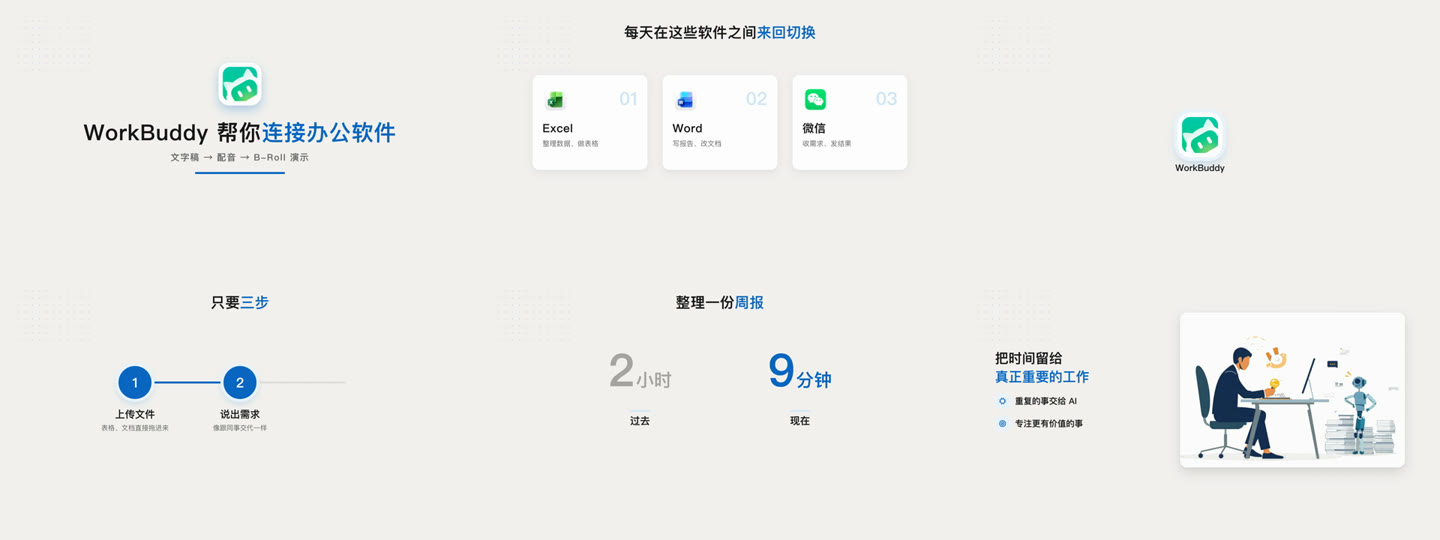
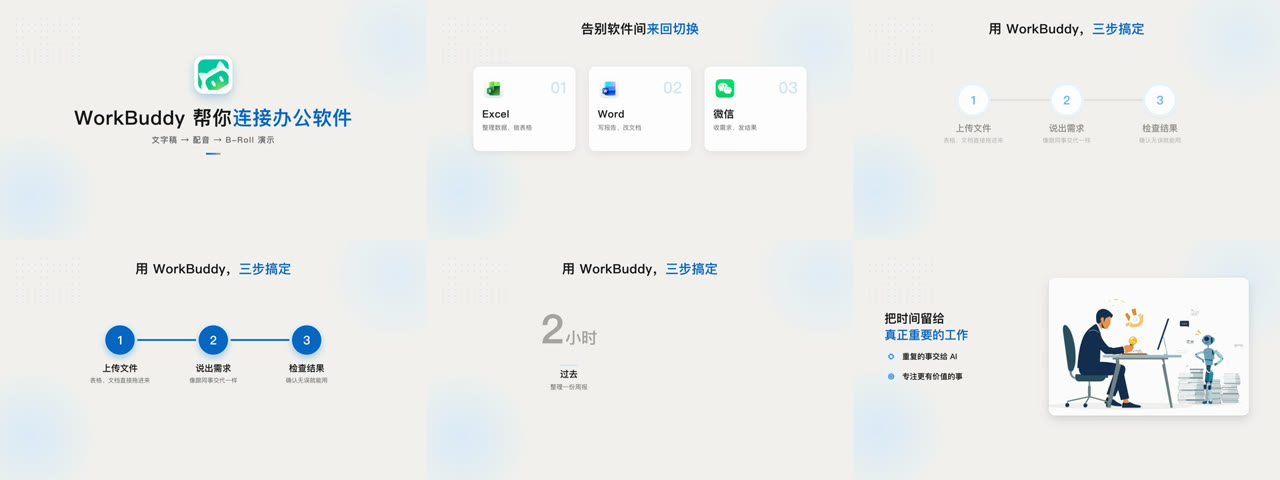
Restore original background; persistent chapter header and lit-up steps in story.html
- Bring back warm-gray background with drifting blue blobs, glow and gradient accents
- Top title in story.html is now a chapter header: inherited across scenes, only changes per topic
- Steps appear idle at scene start and light up at their 'at' time
- Update docs and README screenshots

diff --git a/templates/story.html b/templates/story.html
@@ -13,8 +13,12 @@
   ─────────────────────────────────────────────────────────────
   时间：全部是音频里的绝对秒。from/to = 场景起止，场景之间首尾相接（上一个 to = 下一个 from）。
         要点/列表：条目在场景开头自动依次出现（show 可改），at = 口播说到它时高亮/打勾；
-        步骤、数字、对比、胶囊、图片要点：at = 出现时刻。不写 at 就自动依次出现。
+        步骤：一开场就以浅色全部出现，at = 说到这一步时点亮；
+        数字、对比、胶囊、图片要点：at = 出现时刻。不写 at 就自动依次出现。
         原则：场景开头 0.5 秒内必须有东西，别为了对齐某个字让画面空等。
+  顶部标题：是「章节标题」不是字幕。points/steps/stat/compare/apps 不写 title 就沿用上一个，
+        同一话题的几个场景共用一个标题、切场景时标题不动；换话题才写新 title（title:'' 隐藏）。
+        一般 30–60 秒里只换 2–3 次；具体内容写进卡片/数字标签，不要塞进标题。
   场景类型（字段详见 references/audio-text.md）：
     title      开场标题：图标/logo + 大标题 + 副标题
     points     要点卡片（2–4 个横排，layout:'cards'）或要点列表（最多 6 条，layout:'list'）
@@ -41,6 +45,9 @@ em{font-style:normal;color:var(--blue)}
 .bg{position:absolute;inset:0;background:var(--bg)}
 html.alpha .bg,html.alpha .deco{display:none!important}
 .deco{position:absolute;inset:0;pointer-events:none;overflow:hidden}
+.blob{position:absolute;border-radius:50%}
+.blob.b0{left:-180px;top:560px;width:620px;height:620px;background:radial-gradient(circle,#DCEBFA 0%,rgba(220,235,250,0) 70%)}
+.blob.b1{right:-160px;top:-140px;width:640px;height:640px;background:radial-gradient(circle,#E4EEF9 0%,rgba(228,238,249,0) 70%)}
 .dotgrid{position:absolute;left:60px;top:70px;width:300px;height:220px;background-image:radial-gradient(#C9D9EC 2.4px,transparent 2.6px);background-size:28px 28px;opacity:.9}
 .safe{position:absolute;left:0;right:0;top:880px;height:200px;z-index:60;pointer-events:none;display:none;
   background:repeating-linear-gradient(45deg,rgba(231,163,62,.18) 0 14px,rgba(231,163,62,.05) 14px 28px);border-top:2px dashed var(--amber)}
@@ -76,11 +83,11 @@ html.alpha .card{box-shadow:0 14px 40px rgba(0,0,0,.28)}
 
 /* title */
 .t-wrap{position:absolute;left:0;right:0;top:250px;display:flex;flex-direction:column;align-items:center;text-align:center}
-.t-logo{width:172px;height:172px;border-radius:44px;background:var(--blue);color:#fff;box-shadow:0 18px 40px rgba(10,102,194,.28)}
+.t-logo{width:172px;height:172px;border-radius:44px;background:linear-gradient(135deg,var(--blue-mid),var(--blue-dark));color:#fff;box-shadow:0 18px 40px rgba(10,102,194,.28)}
 .t-logo.img{background:#fff}
 .t-title{margin-top:52px;font-size:88px;font-weight:800;letter-spacing:2px;line-height:112px;max-width:1600px}
 .t-sub{margin-top:18px;font-size:36px;font-weight:600;color:var(--muted);letter-spacing:3px}
-.t-bar{margin-top:34px;height:8px;width:360px;border-radius:4px;background:var(--blue);transform-origin:50% 50%}
+.t-bar{margin-top:34px;height:8px;width:360px;border-radius:4px;background:linear-gradient(90deg,var(--blue),var(--blue-mid) 60%,var(--amber));transform-origin:50% 50%}
 
 /* points：cards */
 .pc{top:300px;height:380px;padding:46px 40px}
@@ -96,7 +103,9 @@ html.alpha .card{box-shadow:0 14px 40px rgba(0,0,0,.28)}
 .pl .ck svg{width:32px;height:32px;stroke-width:3.2}
 
 /* steps */
-.s-node{width:132px;height:132px;border-radius:66px;background:var(--blue);color:#fff;font-size:54px;font-weight:800;display:grid;place-items:center;box-shadow:0 0 0 12px var(--tint),0 14px 30px rgba(10,102,194,.25)}
+.s-node{width:132px;height:132px;border-radius:66px;background:#fff;color:var(--blue-light);font-size:54px;font-weight:800;display:grid;place-items:center;box-shadow:0 0 0 12px var(--tint),0 8px 20px rgba(0,0,0,.08)}
+.s-node svg{width:54px;height:54px}
+.s-node .sl{position:absolute;inset:0;border-radius:66px;background:var(--blue);color:#fff;display:grid;place-items:center;opacity:0;box-shadow:0 14px 30px rgba(10,102,194,.3)}
 .s-txt{text-align:center}
 .s-txt b{display:block;font-size:40px;font-weight:700;line-height:54px}
 .s-txt p{margin-top:8px;font-size:27px;color:var(--muted);line-height:38px}
@@ -151,6 +160,7 @@ html.alpha .card{box-shadow:0 14px 40px rgba(0,0,0,.28)}
 .im-side .it{display:flex;align-items:center;gap:20px;margin-top:30px;font-size:34px;font-weight:600;line-height:46px}
 .im-side .it .tile{width:60px;height:60px;border-radius:18px}
 .im-full{position:absolute;inset:0;overflow:hidden}
+.im-full::after{content:"";position:absolute;inset:0;background:linear-gradient(180deg,rgba(0,0,0,0) 45%,rgba(0,0,0,.38) 100%)}
 .im-full img,.im-full .missing{width:100%;height:100%;object-fit:cover;transform-origin:50% 50%}
 .im-cap{left:120px;top:640px;max-width:1100px;padding:34px 44px;border-radius:28px;background:rgba(255,255,255,.95);box-shadow:0 14px 40px rgba(0,0,0,.28)}
 .im-cap b{display:block;font-size:52px;font-weight:700;line-height:68px}
@@ -167,8 +177,9 @@ html.alpha .card{box-shadow:0 14px 40px rgba(0,0,0,.28)}
 </head>
 <body>
 <div class="bg"></div>
-<div class="deco"><div class="dotgrid"></div></div>
+<div class="deco"><div class="blob b0"></div><div class="blob b1"></div><div class="dotgrid"></div></div>
 <div id="stage"></div>
+<div id="head" class="head o0"></div>
 <div class="safe"></div>
 
 <script>
@@ -189,14 +200,15 @@ window.STORY={scenes:[
   {id:'S4',type:'statement',from:12.26,to:22.64,text:'过去，只有一个 <em>Auto</em>',
     chips:[{icon:'cpu',text:'系统判断任务难度',at:19.52},{icon:'spark',text:'自动匹配模型',at:21.04}]},
   // 「而这次改版@23.76 … 把 Auto 改成了 低@26.46 中@26.92 高@27.18 这三档，每一档的积分@30.68 消耗倍率是不同的」
+  // ↓ S5–S7 同一话题，共用一个顶部标题（S6、S7 不写 title，沿用）
   {id:'S5',type:'compare',from:22.64,to:33.04,title:'这次改版，<em>把选择权交给你</em>',
     left:{label:'过去',icon:'clock',items:[{text:'只有 Auto 一种模式'},{text:'系统替你决定'}]},
     right:{label:'现在',icon:'spark',at:23.76,items:[{text:'低 · 中 · 高 三档',at:26.46},{text:'每档积分倍率不同',at:30.68}]}},
   // 「我们就有了更多的选择权@35.22」
-  {id:'S6',type:'stat',from:33.04,to:36.16,title:'积分消耗<em>倍率</em>',
-    items:[{value:0.21,dec:2,suffix:'×',label:'快速',at:33.2},{value:0.65,dec:2,suffix:'×',label:'均衡',at:33.6},{value:1.2,dec:2,suffix:'×',label:'极致',tone:'amber',at:34.0}]},
+  {id:'S6',type:'stat',from:33.04,to:36.16,
+    items:[{value:0.21,dec:2,suffix:'×',label:'快速',desc:'积分倍率',at:33.2},{value:0.65,dec:2,suffix:'×',label:'均衡',desc:'积分倍率',at:33.6},{value:1.2,dec:2,suffix:'×',label:'极致',desc:'积分倍率',tone:'amber',at:34.0}]},
   // 「比如日常问答@38.36、格式转换@39.02 … 我们就选快速@41.86；均衡@42.74 模式适合写文章」
-  {id:'S7',type:'points',layout:'list',check:true,from:36.16,to:45.0,title:'怎么选？<em>看任务难度</em>',
+  {id:'S7',type:'points',layout:'list',check:true,from:36.16,to:45.0,
     items:[{icon:'chat',text:'日常问答',desc:'→ 选「快速」就够',at:38.36},{icon:'file',text:'格式转换',desc:'→ 选「快速」就够',at:39.02},
            {icon:'bal',text:'写文章、做表格',desc:'→ 选「均衡」',at:42.74}]},
 ]};
@@ -254,7 +266,8 @@ function tile(x,size,lit=false,extra=''){const tone=x.tone?' '+x.tone:'';
   return `<div class="tile${x.img?' plain':''}${tone}${extra}" style="width:${size}px;height:${size}px">${inner}${lit&&!x.img?`<div class="lit">${svg(x.icon)}</div>`:''}</div>`;}
 // 未写 at 的元素依次出现
 const autoAt=(sc,list,start=.45,gap=.3)=>list.forEach((x,i)=>{if(x.at===undefined)x.at=sc.from+start+i*gap;});
-function addHead(sc,el){if(!sc.title)return null;const h=mk('div','head o0',sc.title);el.append(h);return h;}
+// 顶部标题由全局 #head 统一绘制（见「组装」），这里只告诉布局「有没有标题」
+function addHead(sc){return !!sc._head;}
 function addNote(sc,el){if(!sc.note)return null;const n=sc.note;
   const p=mk('div',`pill note ${n.tone||'amber'} cx o0`,svg(n.icon||'info')+n.text,`top:${n.top||770}px`);el.append(p);
   if(n.at===undefined)n.at=sc.to-2.2;return p;}
@@ -279,7 +292,7 @@ T.points=(sc,el)=>{
     it.forEach((x,i)=>{const col=two?(i<rows?0:1):0,r=two?i%rows:i,left=two?(col?1000:120):380;
       const c=mk('div','card pl o0',`${tile(x,64,true)}<b>${x.text}</b>${x.desc?`<p>${x.desc}</p>`:''}${sc.check?`<div class="ck">${svg('chk')}</div>`:''}`,`left:${left}px;top:${y0+r*(rh+g)}px;width:${cw}px`);el.append(c);nodes.push(c);});}
   const note=addNote(sc,el);
-  return t=>{if(h)enter(h,t,sc.from+.1,.5,18);
+  return t=>{
     it.forEach((x,i)=>{const c=nodes[i];
       if(list)fromL(c,t,x.show,.45,-36);else{const p=P(t,x.show,.6,E.back);st(c,{o:P(t,x.show,.4),y:(1-p)*40});}
       const lit=$('.lit',c);if(lit)lit.style.opacity=x.at!==undefined?P(t,x.at,.3):0;
@@ -293,12 +306,16 @@ T.steps=(sc,el)=>{
   const h=addHead(sc,el),it=sc.items,n=it.length;autoAt(sc,it,.3,.6);
   const gap=Math.min(420,1440/Math.max(1,n-1)),cy=sc.y||450,xs=it.map((_,i)=>960+(i-(n-1)/2)*gap);
   el.append(mk('div','a',`<svg width="1920" height="1080" style="position:absolute;left:0;top:0"><path d="M${xs[0]} ${cy}H${xs[n-1]}" stroke="#E3E0DB" stroke-width="8" stroke-linecap="round"/><path class="fill" d="M${xs[0]} ${cy}H${xs[n-1]}" stroke="#0A66C2" stroke-width="8" stroke-linecap="round" fill="none"/></svg>`,'left:0;top:0'));
-  const nodes=it.map((x,i)=>{const c=mk('div','a s-node tnum o0',x.icon?svg(x.icon):String(i+1),`left:${xs[i]-66}px;top:${cy-66}px`);
+  it.forEach((x,i)=>{if(x.show===undefined)x.show=sc.from+.25+i*.15;});
+  const nodes=it.map((x,i)=>{const lb=x.icon?svg(x.icon):String(i+1);const c=mk('div','a s-node tnum o0',`${lb}<div class="sl">${lb}</div>`,`left:${xs[i]-66}px;top:${cy-66}px`);
     const tx=mk('div','a s-txt o0',`<b>${x.text}</b>${x.desc?`<p>${x.desc}</p>`:''}`,`left:${xs[i]-(gap-30)/2}px;top:${cy+100}px;width:${gap-30}px`);el.append(c,tx);return [c,tx];});
   const note=addNote(sc,el);const fill=$('.fill',el);
-  return t=>{if(h)enter(h,t,sc.from+.1,.5,18);
+  return t=>{
     let p=0;for(let i=1;i<n;i++)p+=P(t,it[i].at-.45,.45,E.inOut)/(n-1);draw(fill,p);
-    it.forEach((x,i)=>{pop(nodes[i][0],t,x.at,.5);enter(nodes[i][1],t,x.at+.15,.45,16);});
+    // 步骤在场景开头就以浅色出现，说到第几步（at）时点亮
+    it.forEach((x,i)=>{const [c,tx]=nodes[i],lit=P(t,x.at,.35);
+      const pp=P(t,x.show,.5,E.back);st(c,{o:P(t,x.show,.3),s:L(.7,1,pp)*(1+.08*bump(t,x.at,.5))});$('.sl',c).style.opacity=lit;
+      const pe=P(t,x.show+.1,.45);st(tx,{o:pe*L(.45,1,lit),y:(1-pe)*16});});
     if(note)pop(note,t,sc.note.at);};
 };
 
@@ -307,7 +324,7 @@ T.stat=(sc,el)=>{
   const w=n===1?900:n===2?640:520,x0=(1920-n*w)/2,top=h?300:260;
   const nodes=it.map((x,i)=>{const c=mk('div',`a st-col o0 ${x.tone||''}`,`<div class="st-num tnum">${x.prefix||''}<span class="v"></span><small>${x.suffix||''}</small></div><div class="ln"></div><b>${x.label||''}</b>${x.desc?`<p>${x.desc}</p>`:''}`,`left:${x0+i*w}px;top:${top}px;width:${w}px`);el.append(c);return c;});
   const note=addNote(sc,el);
-  return t=>{if(h)enter(h,t,sc.from+.1,.5,18);
+  return t=>{
     it.forEach((x,i)=>{enter(nodes[i],t,x.at,.5,30);const v=$('.v',nodes[i]);
       v.textContent=typeof x.value==='number'?(x.value*P(t,x.at,1.1)).toFixed(x.dec||0):x.value;});
     if(note)pop(note,t,sc.note.at);};
@@ -323,7 +340,7 @@ T.compare=(sc,el)=>{
   const ch=Math.max(400,180+Math.max(Lf.items.length,Rt.items.length)*94),top=h?250:Math.round((1000-ch)/2);
   [l,r].forEach(c=>{c.style.top=top+'px';c.style.height=ch+'px';});
   const vs=mk('div','a vs o0',svg('arr'),`top:${top+ch/2-58}px`);el.append(vs);const note=addNote(sc,el);
-  return t=>{if(h)enter(h,t,sc.from+.1,.5,18);
+  return t=>{
     fromL(l,t,Lf.at,.5,-40);fromL(r,t,Rt.at,.5,40);pop(vs,t,Rt.at-.1,.45);
     $$('.it',l).forEach((e,i)=>enter(e,t,Lf.items[i].at,.4,14));$$('.it',r).forEach((e,i)=>enter(e,t,Rt.items[i].at,.4,14));
     if(note)pop(note,t,sc.note.at);};
@@ -374,7 +391,7 @@ T.apps=(sc,el)=>{
   }else{const gap=Math.min(300,1600/n);it.forEach((_,i)=>pos.push([960+(i-(n-1)/2)*gap,sc.cy||480]));}
   it.forEach((x,i)=>{const c=mk('div','a ap o0',tile(x,124)+`<span>${x.label||''}</span>`,`left:${pos[i][0]-120}px;top:${pos[i][1]-62}px`);el.append(c);nodes.push(c);});
   const note=addNote(sc,el);
-  return t=>{if(h)enter(h,t,sc.from+.1,.5,18);if(hub)pop(hub,t,sc.hub.at??sc.from+.3,.55);
+  return t=>{if(hub)pop(hub,t,sc.hub.at??sc.from+.3,.55);
     if(lines)$$('path',lines).forEach((p,i)=>{p.style.strokeDasharray='2 12';p.style.opacity=P(t,it[i].at-.2,.4);});
     it.forEach((x,i)=>pop(nodes[i],t,x.at,.5));if(note)pop(note,t,sc.note.at);};
 };
@@ -383,6 +400,21 @@ T.apps=(sc,el)=>{
 const S=window.STORY.scenes.slice().sort((a,b)=>a.from-b.from);
 S.forEach((s,i)=>{if(!T[s.type])throw new Error(`场景 ${s.id||i}：未知 type「${s.type}」`);if(!(s.to>s.from))throw new Error(`场景 ${s.id||i}：to 必须大于 from`);
   if(i&&s.from<S[i-1].to-.01)console.warn(`场景 ${s.id} 与上一个重叠`);s.id=s.id||'S'+(i+1);});
+// 顶部标题 = 章节标题：points/steps/stat/compare/apps 场景不写 title 就沿用上一个；title:'' 隐藏。
+// 相邻场景标题相同就合并成一段，切场景时标题不动，只有换话题才换标题。
+const HEADED={points:1,steps:1,stat:1,compare:1,apps:1};
+let curHead=null;S.forEach(s=>{if(!HEADED[s.type]){s._head=null;return;}if('title' in s)curHead=s.title||null;s._head=curHead;});
+const HEADS=[];S.forEach(s=>{const h=HEADS[HEADS.length-1];if(!s._head)return;
+  if(h&&h.text===s._head&&Math.abs(h.to-s.from)<.02)h.to=s.to;else HEADS.push({text:s._head,from:s.from,to:s.to});});
+const headEl=$('#head');let headNow=null;
+function drawHead(t){const end=S[S.length-1].to,h=HEADS.find(x=>t>=x.from&&(t<x.to||(x.to>=end-.001&&t<=x.to)));
+  if(!h){headEl.style.opacity=0;return;}
+  if(headNow!==h){headEl.innerHTML=h.text;headNow=h;}
+  const pin=P(t,h.from+.1,.5),pout=h.to>=end-.001?0:P(t,h.to-.3,.3,E.inOut);
+  st(headEl,{o:pin*(1-pout),y:(1-pin)*18-pout*14});}
+function drift(t){const b=$$('.deco .blob');
+  if(b[0])b[0].style.transform=`translate(${Math.sin(t*.35)*30}px,${Math.cos(t*.3)*20}px)`;
+  if(b[1])b[1].style.transform=`translate(${Math.cos(t*.3)*30}px,${Math.sin(t*.25)*24}px)`;}
 const stage=$('#stage');
 const live=S.map(s=>{const el=mk('section','sc');el.id=s.id;stage.append(el);return {s,el,up:T[s.type](s,el)};});
 const all={kind:'cover',from:S[0].from,to:S[S.length-1].to};
@@ -393,6 +425,7 @@ const Q=new URLSearchParams(location.search),SC=Q.get('scene')||'ALL',META=windo
 if(Q.has('guides'))document.documentElement.classList.add('guides');
 if(Q.has('alpha'))document.documentElement.classList.add('alpha');
 window.renderAt=t=>{
+  drift(t);drawHead(t);
   live.forEach(({s,el,up},i)=>{
     const last=i===live.length-1,on=t>=s.from&&(t<s.to||(last&&t<=s.to));
     el.classList.toggle('on',on);if(!on)return;

diff --git a/templates/broll.html b/templates/broll.html
@@ -45,6 +45,9 @@ svg.i{fill:none;stroke:currentColor;stroke-width:2;stroke-linecap:round;stroke-l
 
 /* 装饰：漂浮光斑 + 点阵 */
 .deco{position:absolute;inset:0;pointer-events:none;overflow:hidden}
+.blob{position:absolute;border-radius:50%}
+.blob.b0{left:-180px;top:560px;width:620px;height:620px;background:radial-gradient(circle,#DCEBFA 0%,rgba(220,235,250,0) 70%)}
+.blob.b1{right:-160px;top:-140px;width:640px;height:640px;background:radial-gradient(circle,#E4EEF9 0%,rgba(228,238,249,0) 70%)}
 .dotgrid{position:absolute;width:300px;height:220px;background-image:radial-gradient(#C9D9EC 2.4px,transparent 2.6px);background-size:28px 28px;opacity:.9}
 
 /* 标题：顶部居中，58px，em 蓝色强调；标题上方不加小字 */
@@ -95,7 +98,8 @@ svg.i{fill:none;stroke:currentColor;stroke-width:2;stroke-linecap:round;stroke-l
 /* ---------- T / K：透明叠加元素 ---------- */
 .tc{position:absolute;left:1200px;top:330px;width:690px;height:240px;border-radius:32px;background:rgba(255,255,255,.94);box-shadow:0 18px 50px rgba(0,0,0,.32);display:flex;align-items:center;gap:30px;padding:0 40px;opacity:0;overflow:hidden}
 .tc .ico{position:relative;width:124px;height:124px;flex:none}
-.tc .ico .logo{position:relative;z-index:1;width:124px;height:124px;border-radius:30px;background:var(--blue);color:#fff;display:grid;place-items:center;box-shadow:0 10px 24px rgba(10,102,194,.25)}
+.tc::after{content:"";position:absolute;right:-90px;top:-90px;width:260px;height:260px;border-radius:50%;background:radial-gradient(circle,rgba(10,102,194,.14) 0%,rgba(10,102,194,0) 70%)}
+.tc .ico .logo{position:relative;z-index:1;width:124px;height:124px;border-radius:30px;background:linear-gradient(135deg,var(--blue-mid),var(--blue-dark));color:#fff;display:grid;place-items:center;box-shadow:0 10px 24px rgba(10,102,194,.25)}
 .tc .ico .logo svg{width:68px;height:68px}
 .tc .ico img{position:relative;z-index:1;width:124px;height:124px;border-radius:30px}
 .tc .ico .glow{position:absolute;inset:-14px;border-radius:44px;border:4px solid var(--blue-mid);opacity:0}
@@ -103,7 +107,7 @@ svg.i{fill:none;stroke:currentColor;stroke-width:2;stroke-linecap:round;stroke-l
 .tc .w1{font-size:28px;font-weight:600;color:var(--muted);letter-spacing:2px;opacity:0}
 .tc .w2{font-size:48px;font-weight:800;line-height:60px;margin-top:4px;opacity:0;white-space:nowrap}
 .tc .w2 em{font-style:normal;color:var(--blue)}
-.tc .bar2{height:6px;border-radius:3px;margin-top:16px;background:var(--blue);width:300px;transform-origin:0 50%;transform:scaleX(0)}
+.tc .bar2{height:6px;border-radius:3px;margin-top:16px;background:linear-gradient(90deg,var(--blue),var(--blue-mid) 60%,var(--amber));width:300px;transform-origin:0 50%;transform:scaleX(0)}
 .pnl{position:absolute;left:1350px;top:150px;width:500px;background:rgba(255,255,255,.95);border-radius:26px;box-shadow:0 14px 40px rgba(0,0,0,.28);padding:30px 30px 26px;opacity:0}
 .pnl .hd{font-size:38px;font-weight:800;line-height:50px}
 .pnl .hd em{font-style:normal;color:var(--blue)}
@@ -124,7 +128,7 @@ svg.i{fill:none;stroke:currentColor;stroke-width:2;stroke-linecap:round;stroke-l
 <!-- ================= A：遮盖式 · 品牌画面 ================= -->
 <section class="scene" id="A">
   <div class="bg"></div>
-  <div class="deco"><div class="dotgrid" style="left:60px;top:70px"></div></div>
+  <div class="deco"><div class="blob b0"></div><div class="blob b1"></div><div class="dotgrid" style="left:60px;top:70px"></div></div>
   <div class="head"><div class="titles">
     <div class="title">过去：一个 <em>Auto</em> 包办</div>
     <div class="title">现在：<em>快速、均衡、极致</em>，三档自己选</div></div></div>

diff --git a/references/style-guide.md b/references/style-guide.md
@@ -41,8 +41,9 @@ B-Roll 要像 LinkedIn Learning 的课程画面：干净、明亮、信息清楚
 - **胶囊**（`.pill.amber/.green/.blue`）：高 52–56，圆角一半，图标 + 一句话，用来点出提醒或结论。
 - **图标**：24 视框的描边图标，`stroke-width:2`，圆头圆角（模板 `IC` 里有常用的，缺了就照这个规格画）。
 - **真实软件图标**：画面里提到具体软件（Excel、Word、微信、WorkBuddy……）一律用真图标，`scripts/app_icon.sh` 从 /Applications 里提取；做 WorkBuddy 内容时用官方 logo。不要用字母方块或 emoji 代替。
-- **背景**：纯色米白 `--bg` #F3F2EF（想要纯白就改成 #FFFFFF），**不用任何渐变**——不加光晕、渐变底、渐变条、渐变图标底。装饰只留角落一块浅蓝点阵（`.dotgrid`），不抢内容。
-- **配图底色**：Canva 生成的插图也要纯白 / 米白底、无渐变；生成出来底色偏黄就用 ffmpeg `colorkey` 换成白底（见 canva.md）。
+- **背景与装饰**：暖灰底 `--bg` #F3F2EF，上面两团缓慢漂移的浅蓝径向光斑（`.blob`，左下 + 右上）和角落一块浅蓝点阵（`.dotgrid`），很淡、不抢内容。标题卡 logo 用蓝色斜向渐变，强调条用 蓝 → 中蓝 → 琥珀 渐变。
+- **配图底色**：Canva 插图要白底（放进白卡片里），生成出来底色偏黄就用 ffmpeg `colorkey` 换成白底（见 canva.md）。
+- **顶部标题是章节标题，不是字幕**：同一话题的几个场景共用一个标题，切场景时标题不动；换话题才换。30–60 秒里一般只换 2–3 次，具体内容写进卡片、数字标签里。
 - **连接线 / 流程线**：浅蓝 #70B5F9，4px，虚线 `2 12` 或实线，用 `draw()` 逐渐画出。
 
 ## 增强式（叠在原画面上）的标注词汇

diff --git a/SKILL.md b/SKILL.md
@@ -12,7 +12,7 @@ description: 制作领英学习（LinkedIn Learning）风格的课程视频 B-Ro
 - Canva 配图流程与授权规则：`references/canva.md`
 - **只有音频或文字稿**（没有要配的录屏段落）：走 `references/audio-text.md`，用 `templates/story.html`
 - 起步模板：`templates/broll.html`（给原视频某一段做画面，含 5 个示例场景：A 遮盖、B 叠加标注、Z 推镜头、T 标题卡、K 侧边要点）；`templates/story.html`（数据驱动的连续画面，9 种场景类型，填 `window.STORY` 即可）
-- 背景一律**纯米白 #F3F2EF 或纯白**，不要任何渐变（模板和 Canva 配图都一样）
+- 背景：暖灰 #F3F2EF + 淡蓝漂移光斑 + 点阵（模板自带，见 style-guide）；顶部标题是章节标题，同一话题的几个场景共用，不要像字幕一样每个场景换
 
 > 如果项目里有自己的约定（例如 `CLAUDE.md` 里的 B-Roll 规则、`B-Roll清单.md`、命名规范），**以项目约定为准**，本 skill 是默认做法。
 
@@ -48,7 +48,7 @@ $R/grab_frames.sh 原视频.mp4 ref 13 21 26.5        # ref/frame_13.png …
 
 ### 4. 准备素材
 - 真实软件图标：`$R/app_icon.sh "Microsoft Excel" assets_<编号>/excel.png`
-- 插画/场景图：走 Canva（`references/canva.md`），**先问品牌套件、新建设计和提交修改前要用户同意**；提示词要求纯白/米白纯色底、无渐变，底色偏黄要换白。
+- 插画/场景图：走 Canva（`references/canva.md`），**先问品牌套件、新建设计和提交修改前要用户同意**；配图要白底，底色偏黄要换白。
 - 所有素材放 HTML 同目录的 `assets_<编号>/`，用相对路径引用。
 
 ### 5. 写 HTML
